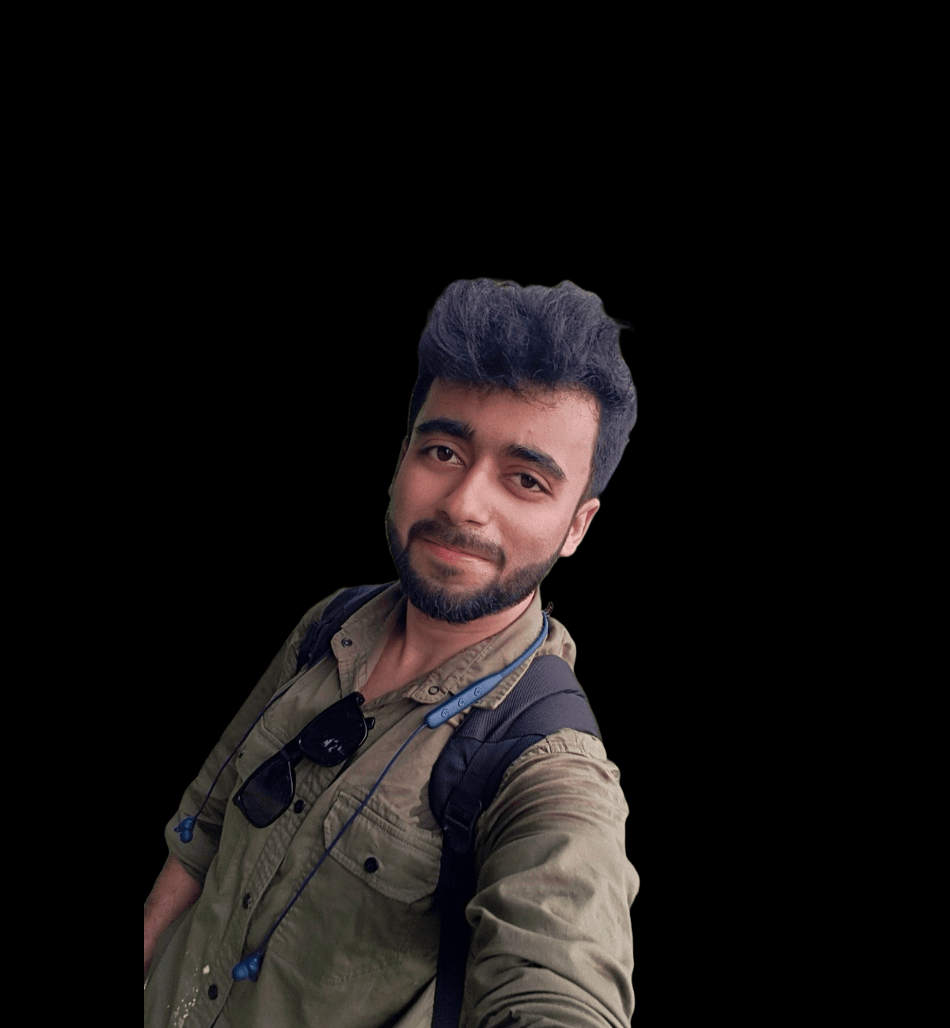
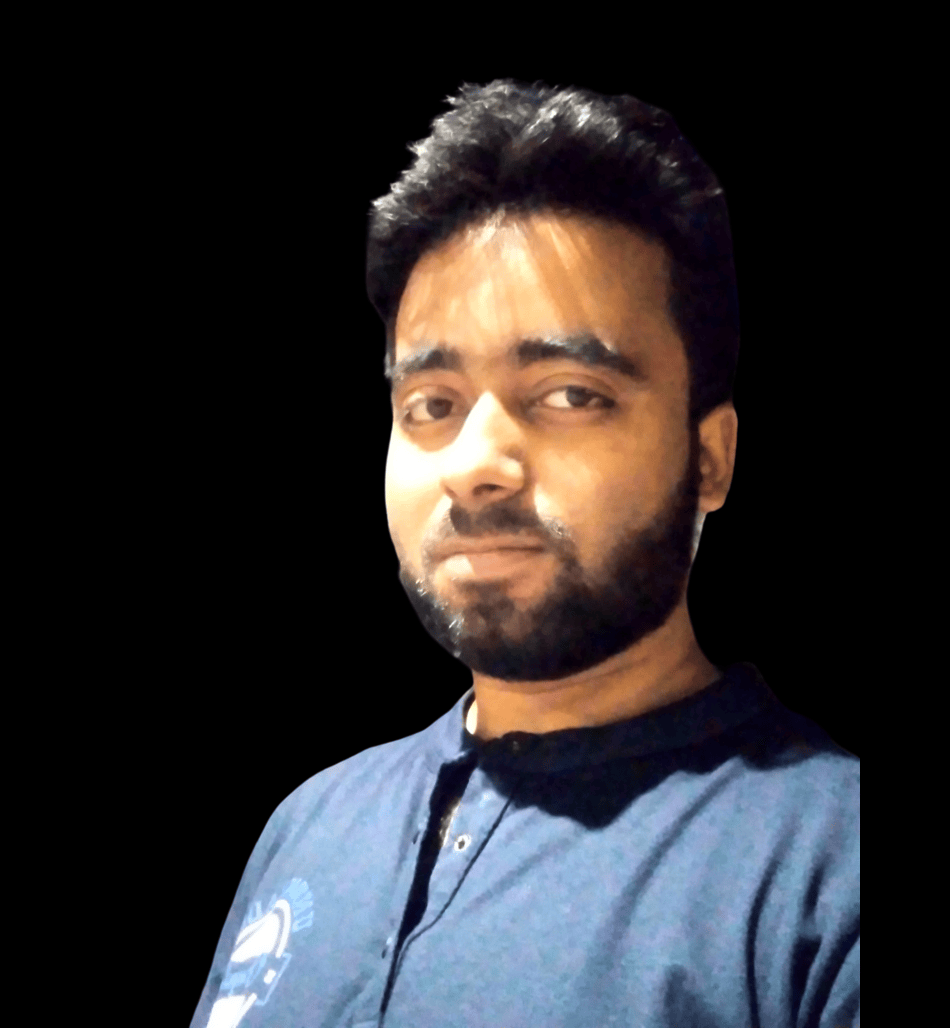
update5

diff --git a/index.html b/index.html
@@ -141,7 +141,7 @@
 	      	<div class="overlay"></div>
 	         <div class="container">
 	          <div class="row d-md-flex no-gutters slider-text align-items-end justify-content-end" data-scrollax-parent="true">
-	          	<div class="one-third js-fullheight order-md-last img" style="background-image:url(images/New.png);">
+	          	<div class="one-third js-fullheight order-md-last img" style="background-image:url(images/Supratim.png);">
 	          	 <div class="overlay"></div>
 	          	</div>
 		          <div class="one-forth d-flex  align-items-center ftco-animate" data-scrollax=" properties: { translateY: '70%' }">
